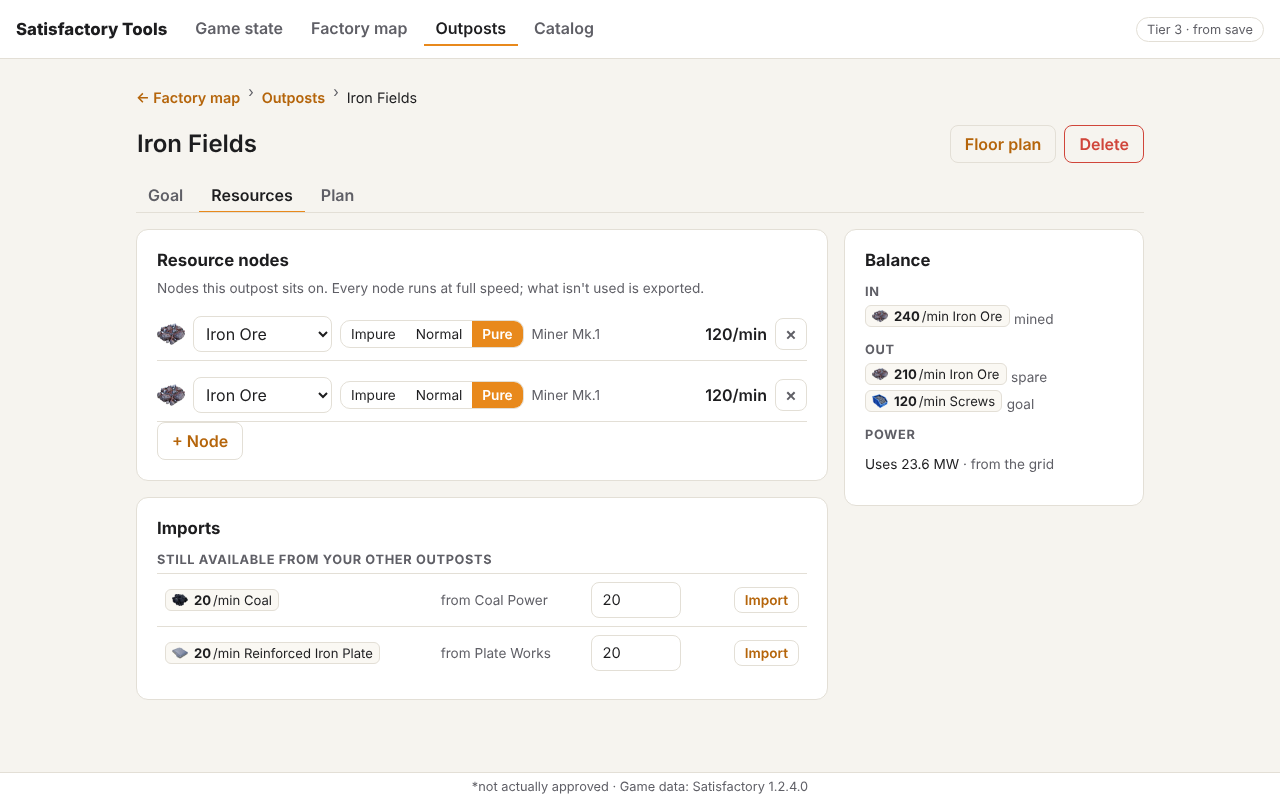
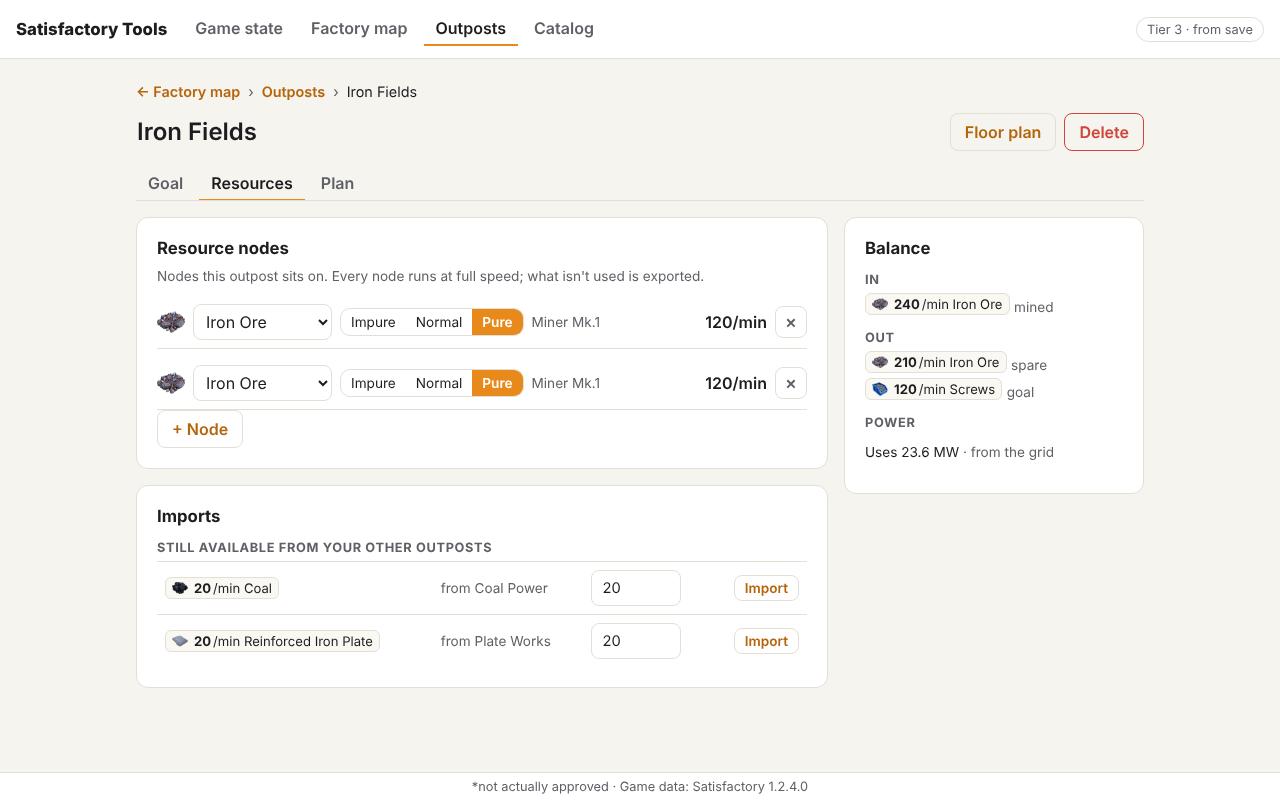
Align breadcrumb arrows, stack tables on phones, reset scroll per screen
Part of #24

Claude-Session: https://claude.ai/code/session_013TNEA66PW4KFW9SzcWvNBG

diff --git a/src/index.css b/src/index.css
@@ -202,6 +202,7 @@ button:disabled { opacity: .5; cursor: not-allowed; }
 .editor-head .title-input { flex: 1 1 260px; }
 .crumbs { display: flex; gap: 8px; align-items: center; flex-wrap: wrap; margin-bottom: 8px; font-size: .9rem; }
 .crumbs a { color: var(--accent-ink); text-decoration: none; font-weight: 600; }
+.crumbs .muted { margin: 0; }
 .subtabs { display: flex; gap: 4px; flex-basis: 100%; border-bottom: 1px solid var(--border); overflow-x: auto; }
 .subtabs .nav-tab { margin-bottom: -1px; }
 .editor-body { display: grid; gap: 16px; grid-template-columns: minmax(0, 1fr); align-items: start; }
@@ -227,3 +228,14 @@ tr.wanted td { background: color-mix(in srgb, var(--accent) 8%, transparent); }
 .tree-picks { margin-top: 8px; }
 .step-table .rate { white-space: normal; }
 .step-table td:first-child { min-width: 180px; }
+/* Phones: tables become stacked rows, one card-like block per row, so nothing scrolls sideways. */
+@media (max-width: 640px) {
+  .table-wrap { overflow-x: visible; }
+  .step-table, .step-table tbody { display: block; }
+  .step-table thead { display: none; }
+  .step-table tr { display: flex; flex-wrap: wrap; align-items: center; gap: 6px 12px; padding: 10px 0; border-top: 1px solid var(--border); }
+  .step-table th, .step-table td { display: block; border: 0; padding: 0; }
+  .step-table td:first-child { flex: 1 1 100%; min-width: 0; }
+  .step-table .num { margin-left: auto; }
+  .recipe-cell select { flex: 1; min-width: 0; max-width: none; }
+}

diff --git a/src/App.tsx b/src/App.tsx
@@ -1,4 +1,4 @@
-import { lazy, Suspense } from 'react'
+import { lazy, Suspense, useLayoutEffect, useRef } from 'react'
 import { gameMeta } from './data'
 import { go, useRoute } from './router'
 import { OutpostEditor, OutpostList } from './screens/Outposts'
@@ -28,6 +28,10 @@ export default function App() {
 
   // These need a game state; without one, start at the welcome screen.
   const needsState = page === 'catalog' || page === 'outposts' || page === 'map'
+  // The page scrolls inside <main>, so start each screen at the top like a page load would.
+  const mainRef = useRef<HTMLElement>(null)
+  const screenKey = [page, param, sub].join('/')
+  useLayoutEffect(() => mainRef.current?.scrollTo(0, 0), [screenKey])
   const screen =
     !page || (needsState && !state) ? (
       <Welcome />
@@ -72,7 +76,7 @@ export default function App() {
           </a>
         )}
       </header>
-      <main className="app-main">
+      <main className="app-main" ref={mainRef}>
         <div className={page === 'map' ? 'page-wide' : 'page'}>{screen}</div>
       </main>
       <footer className="foot">*not actually approved · Game data: Satisfactory {gameMeta.gameVersion}</footer>
